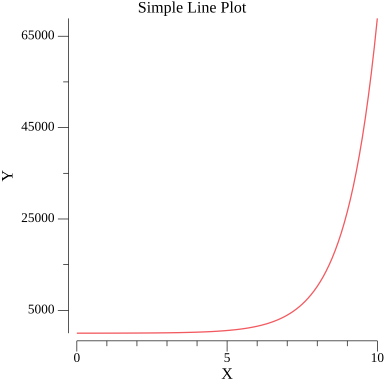
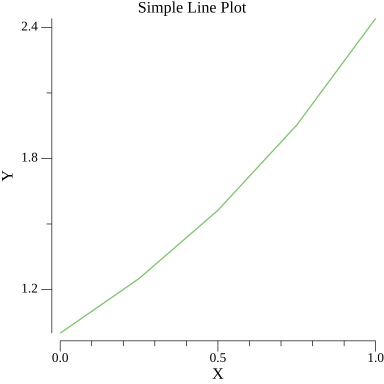
Simplification +IVPproblem struct

diff --git a/IVPproblem.go b/IVPproblem.go
@@ -1,0 +1,63 @@
+package main
+
+import (
+	"fmt"
+
+	"gonum.org/v1/plot"
+	"gonum.org/v1/plot/plotter"
+	"gonum.org/v1/plot/plotutil"
+	"gonum.org/v1/plot/vg"
+)
+
+// IVPproblem is a struct that represents an initial value problem with function u' = f(u, t) and initial value u0 at time t0.
+type IVPproblem struct {
+	u0, t0, t1, k float64
+	f             func(u, t float64) float64
+}
+
+func (ivp IVPproblem) forwardEuler() []float64 {
+	N := int((ivp.t1-ivp.t0)/ivp.k) + 1
+	// t1 = t0 + float64(N)*k
+	y := make([]float64, N)
+
+	y[0] = ivp.u0
+	for i := 1; i < N; i++ {
+		y[i] = y[i-1] + ivp.k*ivp.f(ivp.t0+float64(i-1)*ivp.k, y[i-1])
+	}
+
+	return y
+}
+
+func (ivp IVPproblem) backwardEuler() []float64 {
+	return nil
+}
+
+func (ivp IVPproblem) plot(title, xlabel, ylabel string) {
+	p := plot.New()
+
+	p.Title.Text = title
+	p.X.Label.Text = xlabel
+	p.Y.Label.Text = ylabel
+
+	points := make(plotter.XYs, int((ivp.t1-ivp.t0)/ivp.k)+1)
+	vals := ivp.forwardEuler()
+	for i := 0; i < len(points); i++ {
+		points[i].X = ivp.t0 + float64(i)*ivp.k
+		points[i].Y = vals[i]
+	}
+
+	// Add the data points to the plot
+	line, err := plotter.NewLine(points)
+	if err != nil {
+		panic(err)
+	}
+	line.Color = plotutil.Color(1)
+	p.Add(line)
+
+	fmt.Print("points: ", points)
+
+	// Save the plot to a PNG file
+	if err := p.Save(4*vg.Inch, 4*vg.Inch, "line_plot.png"); err != nil {
+		panic(err)
+	}
+}

diff --git a/p1.go b/p1.go
@@ -1,56 +1,8 @@
 package main
 
-import (
-	"gonum.org/v1/plot"
-	"gonum.org/v1/plot/plotter"
-	"gonum.org/v1/plot/plotutil"
-	"gonum.org/v1/plot/vg"
-)
-
-func forwardEuler(f func(float64, float64) float64, u0, t0, t1, k float64) []float64 {
-	N := int((t1-t0)/k) + 1
-	t1 = t0 + float64(N)*k
-
-	y := make([]float64, N)
-	y[0] = u0
-	for i := 1; i < N; i++ {
-		y[i] = y[i-1] + k*f(t0+float64(i-1)*k, y[i-1])
-	}
-
-	return y
-}
-
-func ivp(t, u float64) float64 {
-	return u
-}
-
 func main() {
-	// Create a new plot
-	p := plot.New()
-
-	p.Title.Text = "Simple Line Plot"
-	p.X.Label.Text = "X"
-	p.Y.Label.Text = "Y"
-
-	// Create some random data points
-	t0, t1, k := 0.0, 10.0, 0.1
-	points := make(plotter.XYs, int((t1-t0)/k)+1)
-	vals := forwardEuler(ivp, 5, t0, t1, k)
-	for i := 0; i < len(points); i++ {
-		points[i].X = t0 + float64(i)*k
-		points[i].Y = vals[i]
-	}
-
-	// Add the data points to the plot
-	line, err := plotter.NewLine(points)
-	if err != nil {
-		panic(err)
-	}
-	line.Color = plotutil.Color(0)
-	p.Add(line)
-
-	// Save the plot to a PNG file
-	if err := p.Save(4*vg.Inch, 4*vg.Inch, "line_plot.png"); err != nil {
-		panic(err)
-	}
+	ode1 := IVPproblem{1.0, 0.0, 1.0, 0.25, func(u, t float64) float64 {
+		return u
+	}}
+	ode1.plot("Plot of u'(t) = u", "t", "u(t)")
 }
